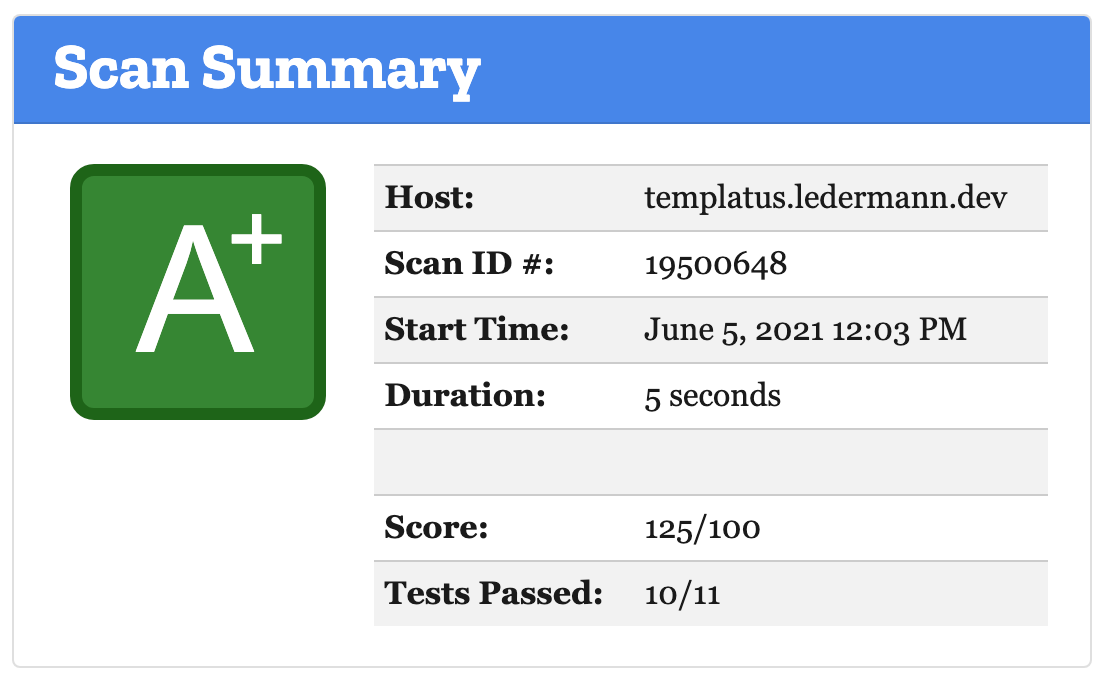
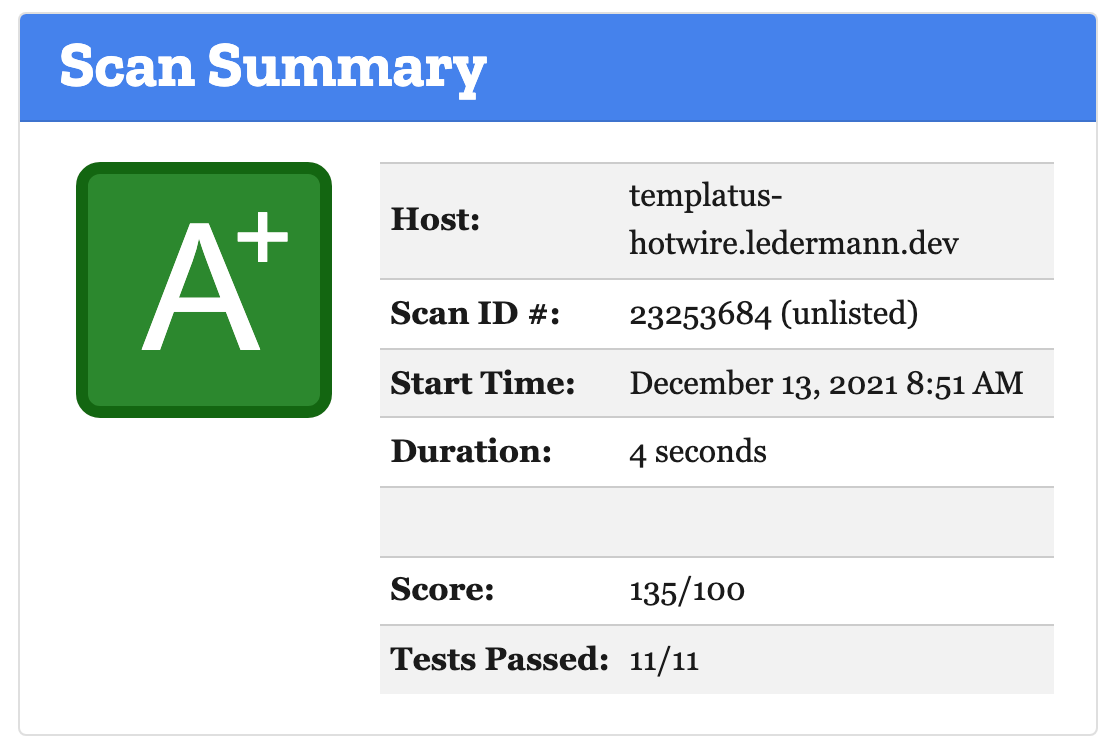
Enable SRI

diff --git a/README.md b/README.md
@@ -82,8 +82,6 @@ https://github.com/rails/rails/pull/41994
 
 [![Mozilla Observatory](docs/mozilla-observatory.png)](https://observatory.mozilla.org/analyze/templatus-hotwire.ledermann.dev)
 
-Why is there a failing test? It's about missing [Subresource Integrity](https://infosec.mozilla.org/guidelines/web_security#subresource-integrity), which is currently not supported by Webpacker. There is a [stale issue](https://github.com/rails/webpacker/issues/323) about it, I don't expect a fix shortly.
-
 ### WebPageTest
 
 [![WebPageTest](docs/web-page-test.png)](https://webpagetest.org/result/211031_BiDcEW_766a9f225f0ae81c9bc42bdff4f726c3/)
